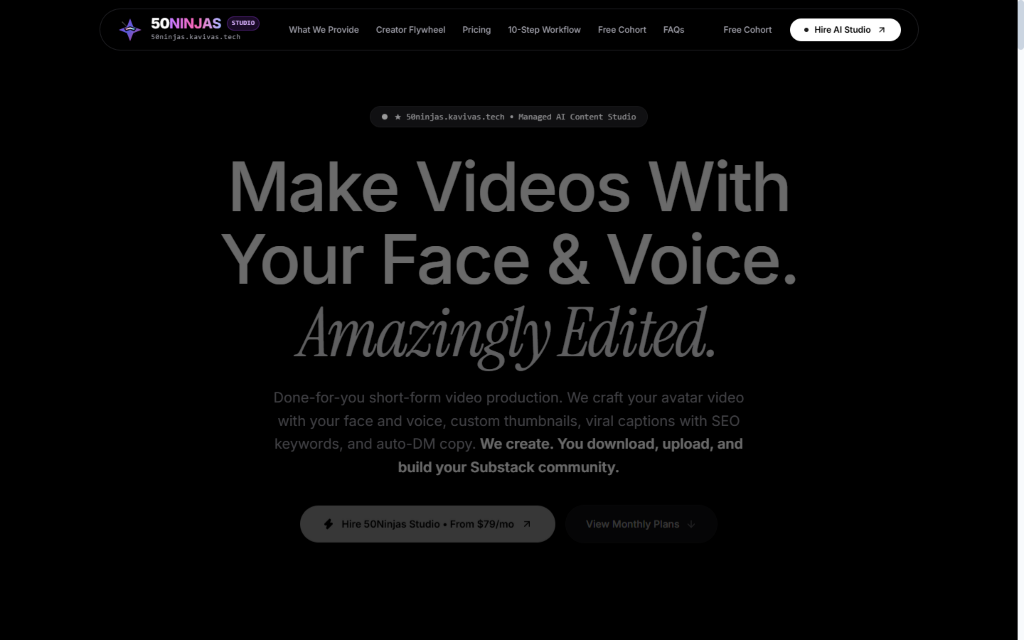
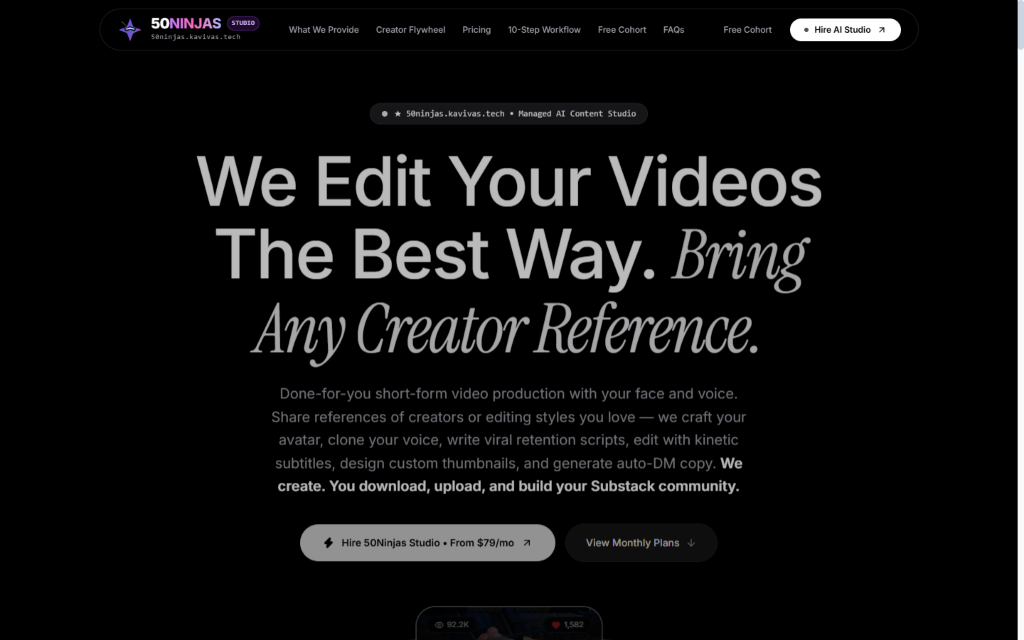
feat: update 50Ninjas hero to 'We Edit Your Videos The Best Way. Bring Any Creator Reference.'

diff --git a/src/app/50ninjas/layout.tsx b/src/app/50ninjas/layout.tsx
@@ -1,19 +1,19 @@
 import type { Metadata } from "next";
 
 export const metadata: Metadata = {
-  title: "50Ninjas | Managed Short-Form AI Content Studio • 50ninjas.kavivas.tech",
+  title: "50Ninjas | We Edit Your Videos The Best Way • 50ninjas.kavivas.tech",
   description:
-    "50Ninjas (50ninjas.kavivas.tech) is a managed short-form AI video production studio and creator ecosystem. Done-for-you avatar creation, voice cloning, kinetic editing, custom thumbnails, and auto-DM copy.",
+    "We Edit Your Videos The Best Way. Bring Any Creator Reference. 50Ninjas (50ninjas.kavivas.tech) is a managed short-form video production studio with your face and voice, kinetic editing, custom thumbnails, and auto-DM copy.",
   keywords: [
     "50Ninjas",
     "50ninjas.kavivas.tech",
+    "We Edit Your Videos The Best Way",
+    "Bring Any Creator Reference",
     "The 50Ninjas Experiment",
     "AI Creator Community",
     "AI Content Studio",
     "Instagram Reels Production",
     "AI Avatars",
-    "Faceless Reels",
-    "Remotion AI Editing",
     "Personal Branding for Founders",
     "Kavivas Tech",
   ],
@@ -22,9 +22,9 @@ export const metadata: Metadata = {
     canonical: "https://50ninjas.kavivas.tech",
   },
   openGraph: {
-    title: "50Ninjas | Managed AI Content Studio • 50ninjas.kavivas.tech",
+    title: "50Ninjas | We Edit Your Videos The Best Way • 50ninjas.kavivas.tech",
     description:
-      "Make Videos With Your Face & Voice. Amazingly Edited. Done-for-you AI avatar video production and creator ecosystem by Kavivas Tech.",
+      "We Edit Your Videos The Best Way. Bring Any Creator Reference. Done-for-you short-form video production with your face and voice by Kavivas Tech.",
     url: "https://50ninjas.kavivas.tech",
     siteName: "50Ninjas",
     type: "website",
@@ -39,9 +39,9 @@ export const metadata: Metadata = {
   },
   twitter: {
     card: "summary_large_image",
-    title: "50Ninjas | Managed AI Content Studio • 50ninjas.kavivas.tech",
+    title: "50Ninjas | We Edit Your Videos The Best Way • 50ninjas.kavivas.tech",
     description:
-      "Make Videos With Your Face & Voice. Amazingly Edited. 50ninjas.kavivas.tech by Kavivas Tech.",
+      "We Edit Your Videos The Best Way. Bring Any Creator Reference. 50ninjas.kavivas.tech by Kavivas Tech.",
     images: ["/kavivas-logo.png"],
   },
 };

diff --git a/src/data/kavivas-data.ts b/src/data/kavivas-data.ts
@@ -103,17 +103,17 @@ export const KAVIVAS_DATA = {
       url: "https://50ninjas.kavivas.tech",
       status: "Live",
       category: "Managed Short-Form AI Content Studio & Ecosystem",
-      tagline: "50Ninjas — Done-For-You AI Short-Form Video Production & Builder Ecosystem",
+      tagline: "50Ninjas — We Edit Your Videos The Best Way. Bring Any Creator Reference.",
       description:
-        "High-velocity short-form content studio and creator ecosystem. We create your AI avatar, clone your voice, write viral retention scripts, edit with kinetic subtitles, and design thumbnails — We create. You post and build your Substack.",
+        "We edit your videos the best way — bring any creator reference. Done-for-you short-form video production with your face and voice, custom thumbnails, and auto-DM copy, backed by the 50Ninjas creator ecosystem.",
       deepDive: [
-        "Done-for-you AI avatar & voice cloning: Publish high-retention Reels consistently using custom AI likeness and voice models with zero camera fatigue.",
+        "We edit your videos the best way: Share references of creators or styles you love — we craft your avatar, clone your voice, and match the editing.",
         "End-to-end production pipeline: Scriptwriting, kinetic word-by-word captions, custom thumbnail covers, and ready-to-paste auto-DM copy for Superprofile.",
         "Proven viral traction: Over 235.4K+ organic views, with flagship viral Reels crossing 92.2K views and 1,582+ likes.",
         "Connected creator ecosystem: Studio clients get access to the 50Ninjas builder mastermind for distribution, growth sprints, and founder playbooks."
       ],
       metrics: "92.2K Peak Reel • Live on 50ninjas.kavivas.tech",
-      tags: ["AI Content Studio", "Avatar & Voice Cloned", "Kinetic Video Editing", "Substack Flywheel", "50ninjas.kavivas.tech"],
+      tags: ["AI Content Studio", "Creator References", "Kinetic Video Editing", "Substack Flywheel", "50ninjas.kavivas.tech"],
       color: "#8B5CF6",
       accentColor: "#8B5CF6",
       image: "/work-50ninjas.png",

diff --git a/src/components/50ninjas/Hero50Ninjas.tsx b/src/components/50ninjas/Hero50Ninjas.tsx
@@ -49,14 +49,14 @@ export default function Hero50Ninjas({
           className="text-center mt-6 max-w-4xl mx-auto"
         >
           <h1 className="text-4xl sm:text-6xl md:text-7xl lg:text-8xl font-medium tracking-tight leading-[1.06] text-white">
-            Make Videos With Your Face &amp; Voice.{" "}
+            We Edit Your Videos The Best Way.{" "}
             <span className={`${instrumentSerif.className} font-normal italic text-zinc-200 block sm:inline`}>
-              Amazingly Edited.
+              Bring Any Creator Reference.
             </span>
           </h1>
 
           <p className="mt-6 text-base sm:text-lg md:text-xl text-zinc-400 max-w-2xl mx-auto font-normal leading-relaxed">
-            Done-for-you short-form video production. We craft your avatar video with your face and voice, custom thumbnails, viral captions with SEO keywords, and auto-DM copy. <span className="text-white font-semibold">We create. You download, upload, and build your Substack community.</span>
+            Done-for-you short-form video production with your face and voice. Share references of creators or editing styles you love &mdash; we craft your avatar, clone your voice, write viral retention scripts, edit with kinetic subtitles, design custom thumbnails, and generate auto-DM copy. <span className="text-white font-semibold">We create. You download, upload, and build your Substack community.</span>
           </p>
         </motion.div>
 

diff --git a/src/components/50ninjas/StudioSection.tsx b/src/components/50ninjas/StudioSection.tsx
@@ -82,9 +82,9 @@ export default function StudioSection({ onOpenStudio }: StudioSectionProps) {
           </div>
 
           <h2 className="text-4xl sm:text-5xl md:text-6xl font-medium tracking-tight leading-[1.08]">
-            We Edit Your Videos The Best Way.{" "}
+            What We Provide &bull;{" "}
             <span className={`${instrumentSerif.className} font-normal italic text-zinc-200 block sm:inline`}>
-              Bring Any Creator Reference.
+              Done-For-You Production Suite
             </span>
           </h2>
 
